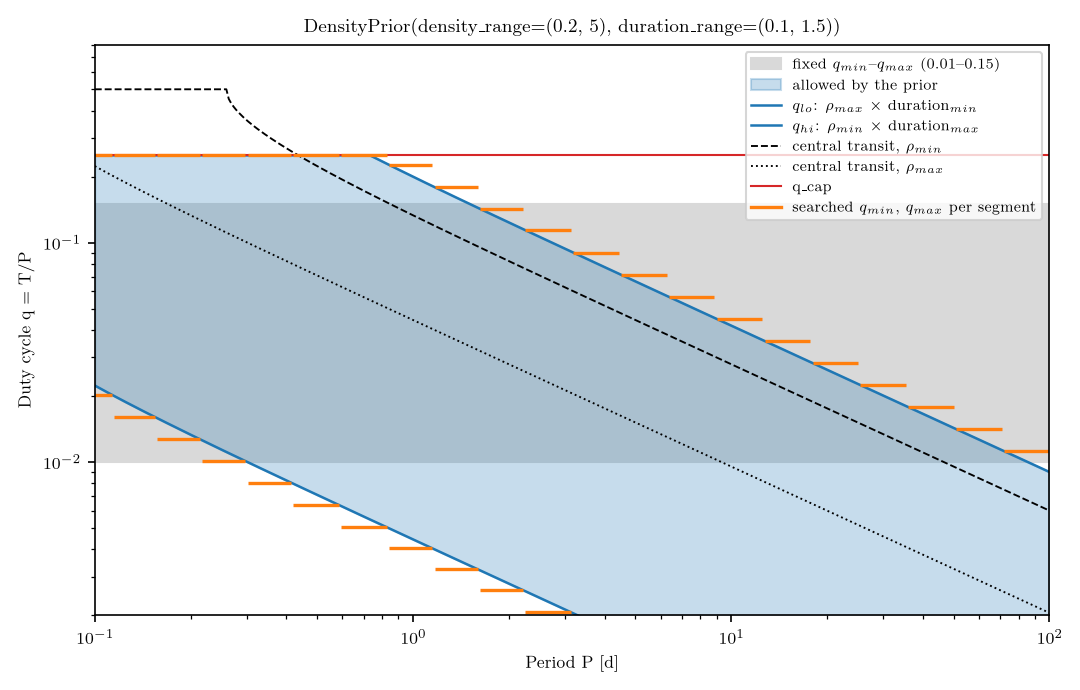
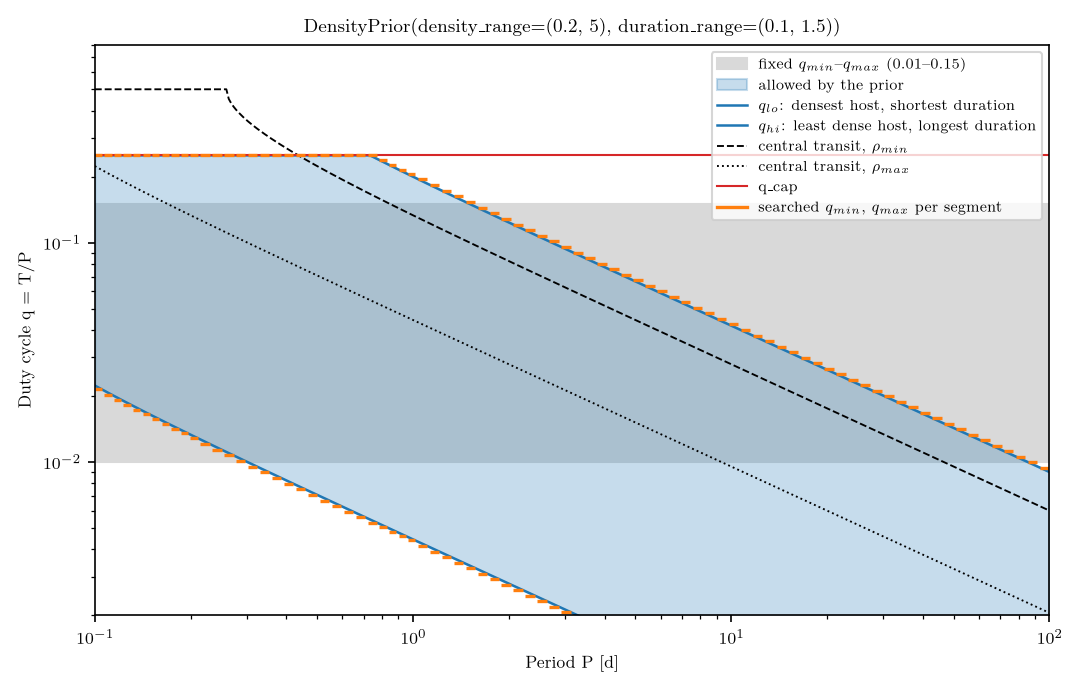
DensityPrior: default q_step 1.25 -> 1.05; regenerate figure
Phase 0 benchmark: 1.02-1.25 give the same noise floor, recovery and
runtime, so the per-frequency (continuous) kernels are not built; a
finer default only reduces overshoot beyond the allowed band.

Claude-Session: https://claude.ai/code/session_016rcWHcxfohwNBAyyHv5SDW

diff --git a/figures/plot_density_prior.py b/figures/plot_density_prior.py
@@ -29,8 +29,8 @@ fig, ax = plt.subplots(figsize=(7.2, 4.6))
 ax.axhspan(0.01, 0.15, color="0.85", zorder=0, label="fixed $q_{min}$–$q_{max}$ (0.01–0.15)")
 # allowed region
 ax.fill_between(P, q_lo, q_hi, color="C0", alpha=0.25, label="allowed by the prior")
-ax.plot(P, q_lo, color="C0", lw=1.2, label=r"$q_{lo}$: $\rho_{max}$ × duration$_{min}$")
-ax.plot(P, q_hi, color="C0", lw=1.2, label=r"$q_{hi}$: $\rho_{min}$ × duration$_{max}$")
+ax.plot(P, q_lo, color="C0", lw=1.2, label=r"$q_{lo}$: densest host, shortest duration")
+ax.plot(P, q_hi, color="C0", lw=1.2, label=r"$q_{hi}$: least dense host, longest duration")
 ax.plot(P, q_center_lo, "k--", lw=0.9, label=r"central transit, $\rho_{min}$")
 ax.plot(P, q_center_hi, "k:", lw=0.9, label=r"central transit, $\rho_{max}$")
 ax.axhline(prior.q_cap, color="C3", lw=1, label="q_cap")

diff --git a/src/multiband_bls/config.py b/src/multiband_bls/config.py
@@ -61,7 +61,7 @@ class DensityPrior:
     density_range: tuple[float, float]
     duration_range: tuple[float, float] = (0.1, 1.5)
     q_cap: float = 0.25
-    q_step: float = 1.25
+    q_step: float = 1.05
     q_floor: float | None = None
 
     def __post_init__(self) -> None:

diff --git a/README.md b/README.md
@@ -182,8 +182,10 @@ A fixed `(q_min, q_max)` search (grey) covers the same widths at every period; t
   falling as `P^(-2/3)` (for the prior shown, about 0.001 at P = 10 d and 0.0002 at 100 d), so the search resolves ever narrower
   boxes. A floor, e.g. `q_floor=0.005`, stops that where such transits are not detectable
   and coarsens the grid accordingly; it must not exceed `q_cap`.
-* `q_step` sets how finely the grid is cut: a new segment, with its own width range and
-  bin count (orange), starts once `q_lo` or `q_hi` has grown by this factor.
+* `q_step` (default 1.05) sets how finely the grid is cut: a new segment, with its own
+  width range and bin count (orange), starts once `q_lo` or `q_hi` has grown by this factor.
+  Segments are cheap: on a 710k-frequency test, 1.02 (158 segments) ran as fast as 1.25
+  (14 segments), with the same noise floor and recovery.
 
 The grid then has a step that follows the minimum duration (uniform in `f^(1/3)`), 9-70x
 fewer points than a uniform grid resolving the same narrowest box. `res.segments` records

diff --git a/CHANGELOG.md b/CHANGELOG.md
@@ -2,6 +2,10 @@
 
 ## [Unreleased]
 
+### Changed
+
+- `DensityPrior.q_step` default 1.25 -> 1.05: segment width ranges follow the allowed band more closely (less overshoot) at no measured cost; density-prior power values change slightly.
+
 ### Added
 
 - `DensityPrior(q_floor=...)`: optional lower limit on the duty-cycle range (default `None`, results unchanged); also accepted by `density_duration_bounds` and `density_frequency_grid`.
